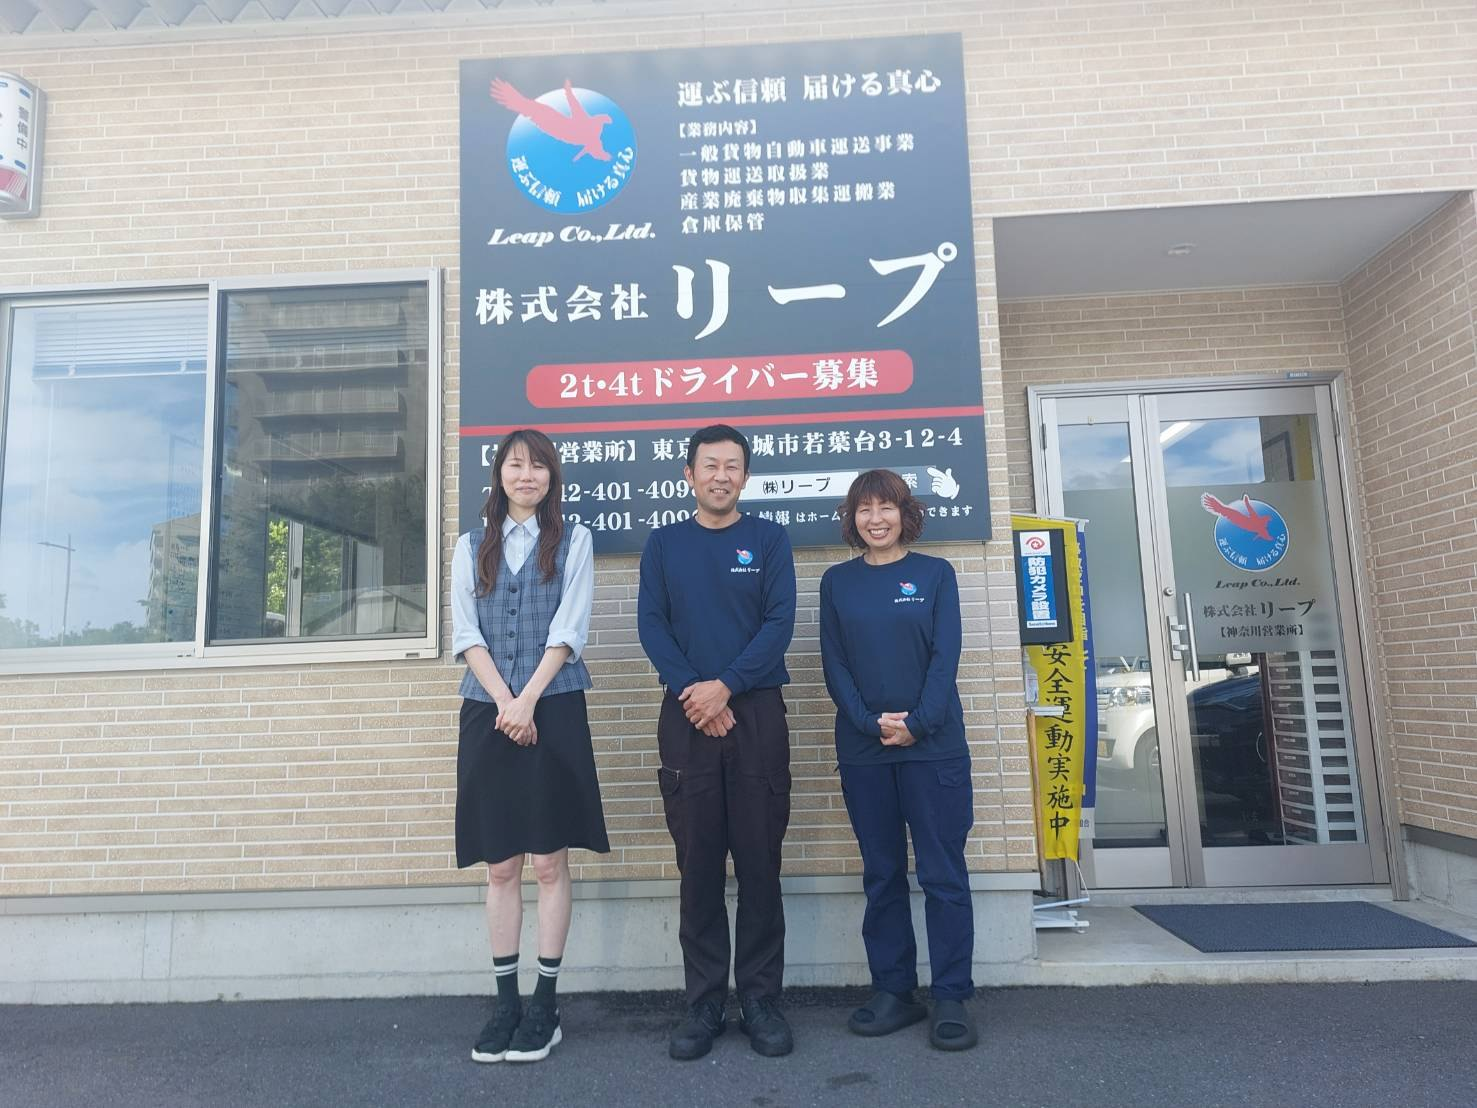
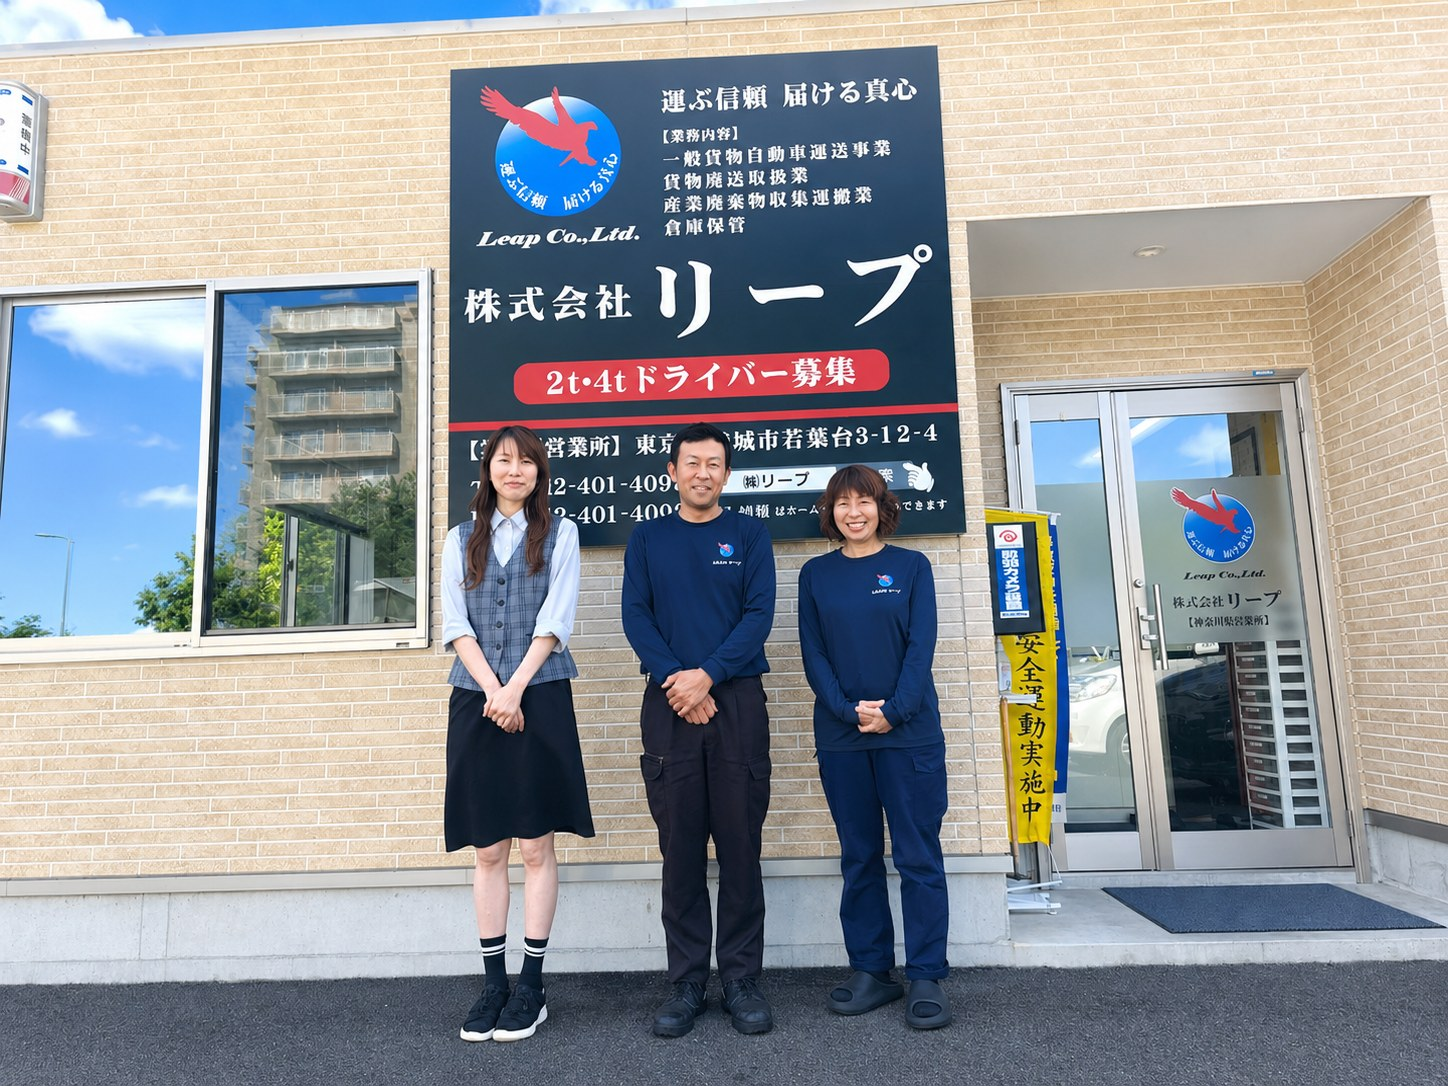
神奈川営業所スタッフ写真をきれいな版に差し替え
・real-kanagawa-staff-sign.jpg を明るく鮮明な提供版に置き換え（office-kanagawa STAFF・company スタッフ紹介の本写真）
・キャッシュ対策として参照に ?v=2 を付与

Claude-Session: https://claude.ai/code/session_01JZikgdeCZf19eyLi2PAYWV

diff --git a/company.html b/company.html
@@ -229,9 +229,9 @@
     <div class="block-head"><span class="eyebrow">OUR TEAM</span><h2>スタッフ紹介</h2></div>
     <p class="prose" style="margin-bottom:12px;">各営業所のスタッフが、安全・確実・迅速な物流を支えています。</p>
     <div class="facility-grid office-gallery">
-      <button type="button" class="gallery-item" data-name="スタッフ紹介" data-images='["/assets/real-staff-honsha-group.jpg","/assets/real-kanagawa-staff-sign.jpg","/assets/real-staff-branch-group.jpg","/assets/real-kanagawa-drivers.jpg","/assets/real-staff-management.jpg","/assets/real-team-trio.jpg"]' data-start="0" onclick="openVehLightbox(this)"><span class="gal-tag">本社</span><img src="/assets/real-staff-honsha-group.jpg" alt="本社スタッフ集合" loading="lazy"><figcaption>本社スタッフ</figcaption><span class="gal-more"><svg viewBox="0 0 24 24" fill="none" stroke="currentColor" stroke-width="2" stroke-linecap="round"><circle cx="11" cy="11" r="7"/><line x1="21" y1="21" x2="16.65" y2="16.65"/><line x1="11" y1="8" x2="11" y2="14"/><line x1="8" y1="11" x2="14" y2="11"/></svg>写真をみる 6枚</span></button>
-      <button type="button" class="gallery-item" data-name="スタッフ紹介" data-images='["/assets/real-staff-honsha-group.jpg","/assets/real-kanagawa-staff-sign.jpg","/assets/real-staff-branch-group.jpg","/assets/real-kanagawa-drivers.jpg","/assets/real-staff-management.jpg","/assets/real-team-trio.jpg"]' data-start="1" onclick="openVehLightbox(this)"><span class="gal-tag">神奈川</span><img src="/assets/real-kanagawa-staff-sign.jpg" alt="神奈川営業所スタッフ" loading="lazy"><figcaption>神奈川営業所スタッフ</figcaption><span class="gal-more"><svg viewBox="0 0 24 24" fill="none" stroke="currentColor" stroke-width="2" stroke-linecap="round"><circle cx="11" cy="11" r="7"/><line x1="21" y1="21" x2="16.65" y2="16.65"/><line x1="11" y1="8" x2="11" y2="14"/><line x1="8" y1="11" x2="14" y2="11"/></svg>写真をみる 6枚</span></button>
-      <button type="button" class="gallery-item" data-name="スタッフ紹介" data-images='["/assets/real-staff-honsha-group.jpg","/assets/real-kanagawa-staff-sign.jpg","/assets/real-staff-branch-group.jpg","/assets/real-kanagawa-drivers.jpg","/assets/real-staff-management.jpg","/assets/real-team-trio.jpg"]' data-start="2" onclick="openVehLightbox(this)"><span class="gal-tag">茨城</span><img src="/assets/real-staff-branch-group.jpg" alt="茨城営業所スタッフ" loading="lazy"><figcaption>茨城営業所スタッフ</figcaption><span class="gal-more"><svg viewBox="0 0 24 24" fill="none" stroke="currentColor" stroke-width="2" stroke-linecap="round"><circle cx="11" cy="11" r="7"/><line x1="21" y1="21" x2="16.65" y2="16.65"/><line x1="11" y1="8" x2="11" y2="14"/><line x1="8" y1="11" x2="14" y2="11"/></svg>写真をみる 6枚</span></button>
+      <button type="button" class="gallery-item" data-name="スタッフ紹介" data-images='["/assets/real-staff-honsha-group.jpg","/assets/real-kanagawa-staff-sign.jpg?v=2","/assets/real-staff-branch-group.jpg","/assets/real-kanagawa-drivers.jpg","/assets/real-staff-management.jpg","/assets/real-team-trio.jpg"]' data-start="0" onclick="openVehLightbox(this)"><span class="gal-tag">本社</span><img src="/assets/real-staff-honsha-group.jpg" alt="本社スタッフ集合" loading="lazy"><figcaption>本社スタッフ</figcaption><span class="gal-more"><svg viewBox="0 0 24 24" fill="none" stroke="currentColor" stroke-width="2" stroke-linecap="round"><circle cx="11" cy="11" r="7"/><line x1="21" y1="21" x2="16.65" y2="16.65"/><line x1="11" y1="8" x2="11" y2="14"/><line x1="8" y1="11" x2="14" y2="11"/></svg>写真をみる 6枚</span></button>
+      <button type="button" class="gallery-item" data-name="スタッフ紹介" data-images='["/assets/real-staff-honsha-group.jpg","/assets/real-kanagawa-staff-sign.jpg?v=2","/assets/real-staff-branch-group.jpg","/assets/real-kanagawa-drivers.jpg","/assets/real-staff-management.jpg","/assets/real-team-trio.jpg"]' data-start="1" onclick="openVehLightbox(this)"><span class="gal-tag">神奈川</span><img src="/assets/real-kanagawa-staff-sign.jpg?v=2" alt="神奈川営業所スタッフ" loading="lazy"><figcaption>神奈川営業所スタッフ</figcaption><span class="gal-more"><svg viewBox="0 0 24 24" fill="none" stroke="currentColor" stroke-width="2" stroke-linecap="round"><circle cx="11" cy="11" r="7"/><line x1="21" y1="21" x2="16.65" y2="16.65"/><line x1="11" y1="8" x2="11" y2="14"/><line x1="8" y1="11" x2="14" y2="11"/></svg>写真をみる 6枚</span></button>
+      <button type="button" class="gallery-item" data-name="スタッフ紹介" data-images='["/assets/real-staff-honsha-group.jpg","/assets/real-kanagawa-staff-sign.jpg?v=2","/assets/real-staff-branch-group.jpg","/assets/real-kanagawa-drivers.jpg","/assets/real-staff-management.jpg","/assets/real-team-trio.jpg"]' data-start="2" onclick="openVehLightbox(this)"><span class="gal-tag">茨城</span><img src="/assets/real-staff-branch-group.jpg" alt="茨城営業所スタッフ" loading="lazy"><figcaption>茨城営業所スタッフ</figcaption><span class="gal-more"><svg viewBox="0 0 24 24" fill="none" stroke="currentColor" stroke-width="2" stroke-linecap="round"><circle cx="11" cy="11" r="7"/><line x1="21" y1="21" x2="16.65" y2="16.65"/><line x1="11" y1="8" x2="11" y2="14"/><line x1="8" y1="11" x2="14" y2="11"/></svg>写真をみる 6枚</span></button>
     </div>
   </div>
 

diff --git a/office-kanagawa.html b/office-kanagawa.html
@@ -219,9 +219,9 @@
   <div class="block">
     <div class="block-head"><span class="eyebrow">STAFF</span><h2>スタッフ</h2></div>
     <div class="facility-grid office-gallery">
-      <button type="button" class="gallery-item" data-name="神奈川営業所スタッフ" data-images='["/assets/real-kanagawa-staff-sign.jpg","/assets/real-kanagawa-drivers.jpg","/assets/real-kanagawa-driver.jpg"]' data-start="0" onclick="openVehLightbox(this)"><span class="gal-tag">スタッフ</span><img src="/assets/real-kanagawa-staff-sign.jpg" alt="神奈川営業所スタッフ" loading="lazy"><figcaption>神奈川営業所スタッフ</figcaption><span class="gal-more"><svg viewBox="0 0 24 24" fill="none" stroke="currentColor" stroke-width="2" stroke-linecap="round"><circle cx="11" cy="11" r="7"/><line x1="21" y1="21" x2="16.65" y2="16.65"/><line x1="11" y1="8" x2="11" y2="14"/><line x1="8" y1="11" x2="14" y2="11"/></svg>写真をみる 3枚</span></button>
-      <button type="button" class="gallery-item" data-name="神奈川営業所スタッフ" data-images='["/assets/real-kanagawa-staff-sign.jpg","/assets/real-kanagawa-drivers.jpg","/assets/real-kanagawa-driver.jpg"]' data-start="1" onclick="openVehLightbox(this)"><span class="gal-tag">ドライバー</span><img src="/assets/real-kanagawa-drivers.jpg" alt="神奈川のドライバーチーム" loading="lazy"><figcaption>頼れるドライバーチーム</figcaption><span class="gal-more"><svg viewBox="0 0 24 24" fill="none" stroke="currentColor" stroke-width="2" stroke-linecap="round"><circle cx="11" cy="11" r="7"/><line x1="21" y1="21" x2="16.65" y2="16.65"/><line x1="11" y1="8" x2="11" y2="14"/><line x1="8" y1="11" x2="14" y2="11"/></svg>写真をみる 3枚</span></button>
-      <button type="button" class="gallery-item" data-name="神奈川営業所スタッフ" data-images='["/assets/real-kanagawa-staff-sign.jpg","/assets/real-kanagawa-drivers.jpg","/assets/real-kanagawa-driver.jpg"]' data-start="2" onclick="openVehLightbox(this)"><span class="gal-tag">ドライバー</span><img src="/assets/real-kanagawa-driver.jpg" alt="運転席のドライバー" loading="lazy"><figcaption>運転席のドライバー</figcaption><span class="gal-more"><svg viewBox="0 0 24 24" fill="none" stroke="currentColor" stroke-width="2" stroke-linecap="round"><circle cx="11" cy="11" r="7"/><line x1="21" y1="21" x2="16.65" y2="16.65"/><line x1="11" y1="8" x2="11" y2="14"/><line x1="8" y1="11" x2="14" y2="11"/></svg>写真をみる 3枚</span></button>
+      <button type="button" class="gallery-item" data-name="神奈川営業所スタッフ" data-images='["/assets/real-kanagawa-staff-sign.jpg?v=2","/assets/real-kanagawa-drivers.jpg","/assets/real-kanagawa-driver.jpg"]' data-start="0" onclick="openVehLightbox(this)"><span class="gal-tag">スタッフ</span><img src="/assets/real-kanagawa-staff-sign.jpg?v=2" alt="神奈川営業所スタッフ" loading="lazy"><figcaption>神奈川営業所スタッフ</figcaption><span class="gal-more"><svg viewBox="0 0 24 24" fill="none" stroke="currentColor" stroke-width="2" stroke-linecap="round"><circle cx="11" cy="11" r="7"/><line x1="21" y1="21" x2="16.65" y2="16.65"/><line x1="11" y1="8" x2="11" y2="14"/><line x1="8" y1="11" x2="14" y2="11"/></svg>写真をみる 3枚</span></button>
+      <button type="button" class="gallery-item" data-name="神奈川営業所スタッフ" data-images='["/assets/real-kanagawa-staff-sign.jpg?v=2","/assets/real-kanagawa-drivers.jpg","/assets/real-kanagawa-driver.jpg"]' data-start="1" onclick="openVehLightbox(this)"><span class="gal-tag">ドライバー</span><img src="/assets/real-kanagawa-drivers.jpg" alt="神奈川のドライバーチーム" loading="lazy"><figcaption>頼れるドライバーチーム</figcaption><span class="gal-more"><svg viewBox="0 0 24 24" fill="none" stroke="currentColor" stroke-width="2" stroke-linecap="round"><circle cx="11" cy="11" r="7"/><line x1="21" y1="21" x2="16.65" y2="16.65"/><line x1="11" y1="8" x2="11" y2="14"/><line x1="8" y1="11" x2="14" y2="11"/></svg>写真をみる 3枚</span></button>
+      <button type="button" class="gallery-item" data-name="神奈川営業所スタッフ" data-images='["/assets/real-kanagawa-staff-sign.jpg?v=2","/assets/real-kanagawa-drivers.jpg","/assets/real-kanagawa-driver.jpg"]' data-start="2" onclick="openVehLightbox(this)"><span class="gal-tag">ドライバー</span><img src="/assets/real-kanagawa-driver.jpg" alt="運転席のドライバー" loading="lazy"><figcaption>運転席のドライバー</figcaption><span class="gal-more"><svg viewBox="0 0 24 24" fill="none" stroke="currentColor" stroke-width="2" stroke-linecap="round"><circle cx="11" cy="11" r="7"/><line x1="21" y1="21" x2="16.65" y2="16.65"/><line x1="11" y1="8" x2="11" y2="14"/><line x1="8" y1="11" x2="14" y2="11"/></svg>写真をみる 3枚</span></button>
     </div>
   </div>
 
